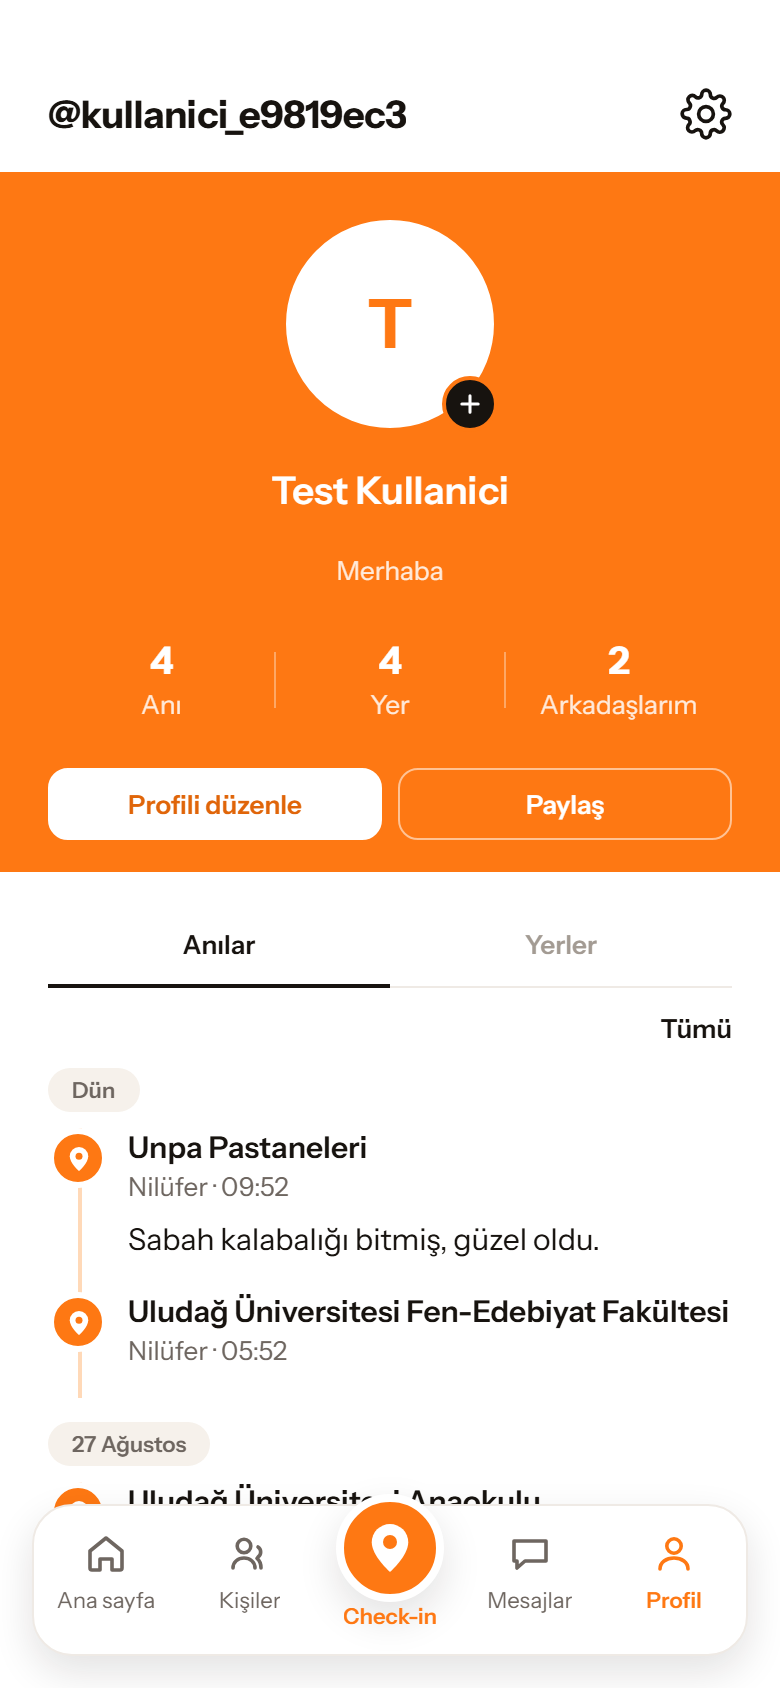
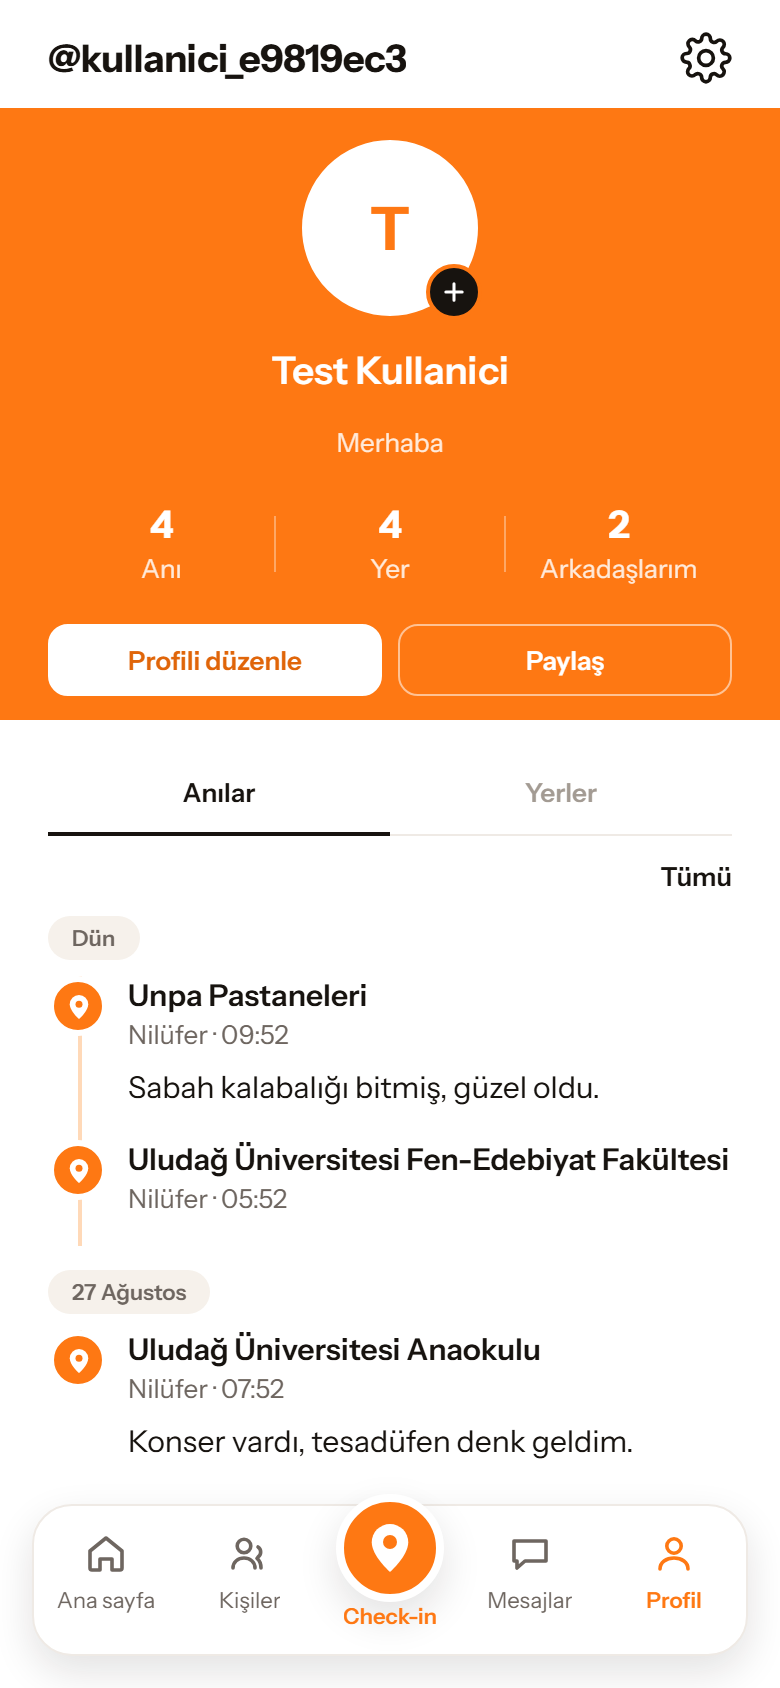
feat(profil): ust kisim kuculdu ve yukari alindi
Kullanicinin istegi: "Bu ust kismi biraz daha kucultup yukari tasi".

- Sayfanin ust payi 44 -> 16: durum cubugunun altindaki bosluk
  gereginden genisti, her sey yukari kaydi.
- Kullanici adi satirinin alt payi 16 -> 12.
- Band ic paylari: ust 24 -> 16, alt 16 -> 12, ogeler arasi 16 -> 12.
- Avatar 104 -> 88 (bas harf 34 -> 30): band kuculurken capa da
  orantili kuculdu.

Toplamda ust blok yaklasik 90 piksel kisaldi; ayni ekranda artik dort
ani birden goruluyor (onceden iki).

Yayindaki surumden ekran goruntusuyle dogrulandi. jest 52 paket /
461 test yesil, tsc taban.

Claude-Session: https://claude.ai/code/session_01RPADX9vz5pGDstg48GDVRa

diff --git a/mobil/src/app/profil/index.tsx b/mobil/src/app/profil/index.tsx
@@ -559,7 +559,10 @@ const stiller = StyleSheet.create({
   sayfa: { flex: 1 },
   icerik: {
     paddingHorizontal: bosluk.xl,
-    paddingTop: bosluk.xxl + bosluk.m,
+    // Ust pay 44 -> 16 (kullanicinin istegi 2026-08-29: "biraz daha
+    // kucultup yukari tasi"). Durum cubugunun altindaki bosluk
+    // gereginden genisti.
+    paddingTop: bosluk.l,
     paddingBottom: ALT_GEZINME_PAYI,
   },
 
@@ -568,7 +571,7 @@ const stiller = StyleSheet.create({
     alignItems: 'center',
     justifyContent: 'space-between',
     gap: bosluk.m,
-    marginBottom: bosluk.l,
+    marginBottom: bosluk.m,
   },
   kullaniciAdi: {
     flexShrink: 1,
@@ -607,12 +610,14 @@ const stiller = StyleSheet.create({
    */
   kimlik: {
     alignItems: 'center',
-    gap: bosluk.l,
+    // Band KUCULDU (kullanicinin istegi 2026-08-29): ogeler arasi
+    // bosluk 16 -> 12, ust pay 24 -> 16, alt pay 16 -> 12.
+    gap: bosluk.m,
     backgroundColor: renk.turuncu,
     marginHorizontal: -bosluk.xl,
     paddingHorizontal: bosluk.xl,
-    paddingTop: bosluk.xl,
-    paddingBottom: bosluk.l,
+    paddingTop: bosluk.l,
+    paddingBottom: bosluk.m,
     // Bandin altindaki bosluk DARALTILDI (kullanicinin istegi
     // 2026-08-28): band ile "Anilar" arasinda genis bir beyaz aralik
     // kaliyordu. Alt pay bolum basliginin kendi ust payiyla toplaniyor,
@@ -640,9 +645,10 @@ const stiller = StyleSheet.create({
   },
   // Buyutuldu (kullanicinin istegi 2026-08-27): profilin capasi bu.
   avatar: {
-    width: 104,
-    height: 104,
-    borderRadius: 52,
+    // 104 -> 88: band kuculurken capa da orantili kuculdu.
+    width: 88,
+    height: 88,
+    borderRadius: 44,
     // Turuncu zeminde fotografi ayiran beyaz halka.
     borderWidth: 4,
     borderColor: '#FFFFFF',
@@ -654,7 +660,7 @@ const stiller = StyleSheet.create({
   },
   basHarf: {
     fontFamily: yazi.ekranBasligi,
-    fontSize: 34,
+    fontSize: 30,
     color: renk.turuncu,
   },
 
